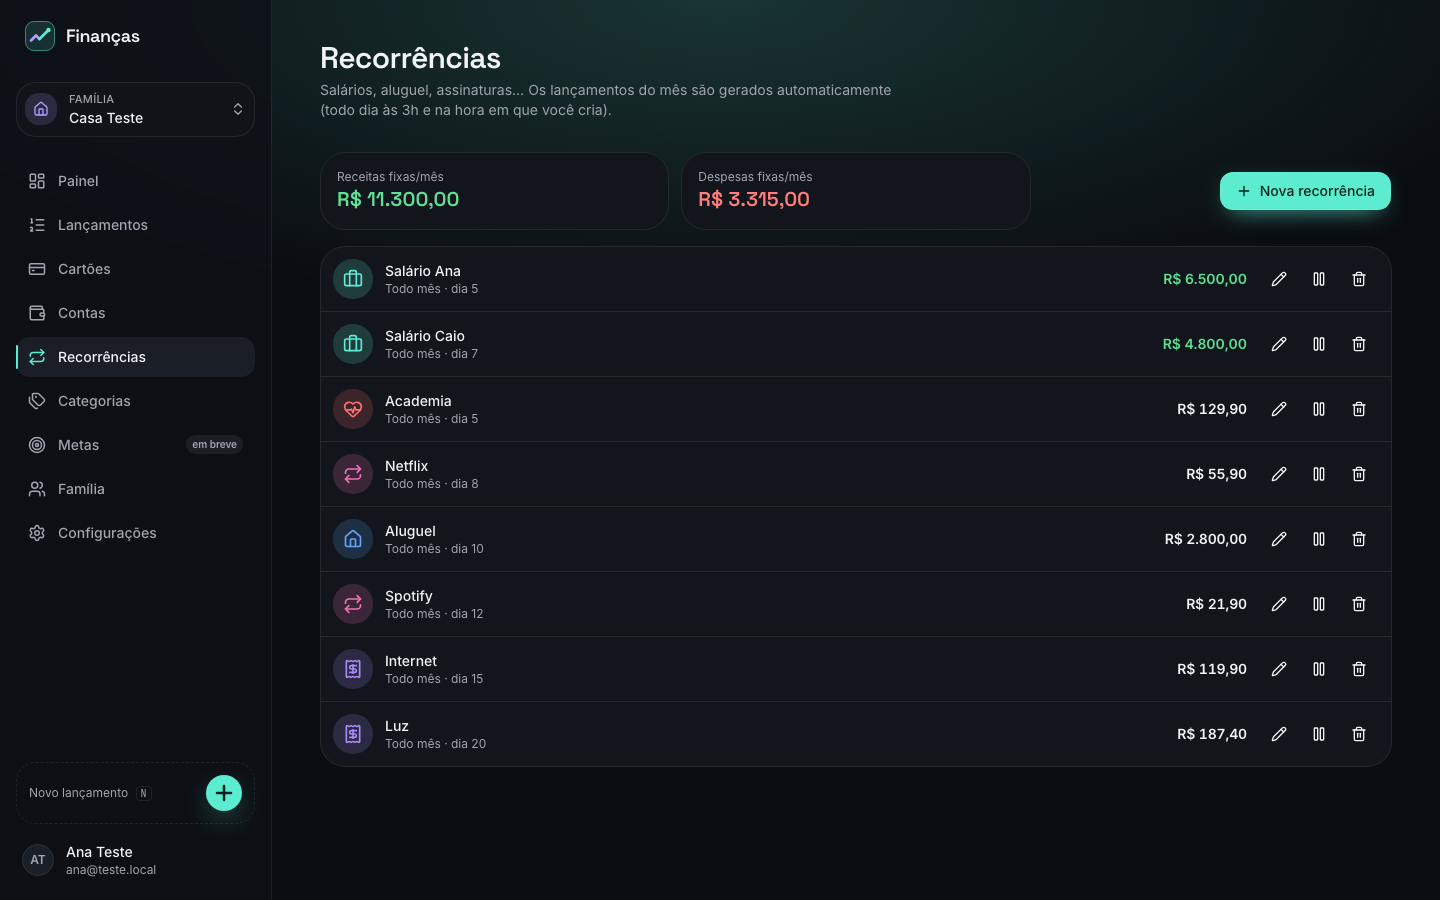
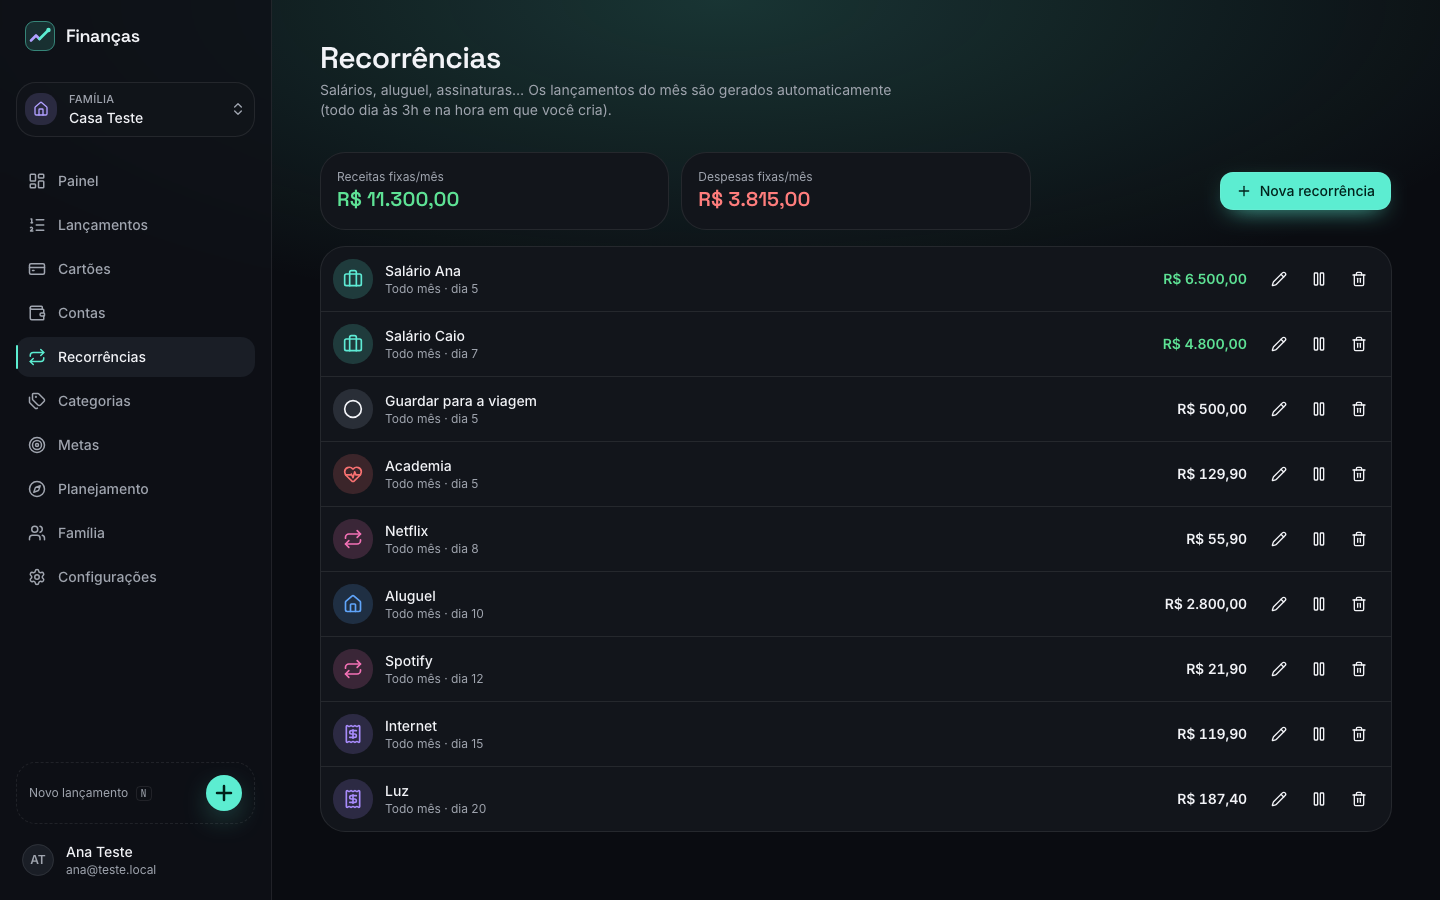
docs(images): screenshots da Fase 4 (metas, detalhe, planejamento, guardar para meta)

diff --git a/e2e/screenshots.spec.ts b/e2e/screenshots.spec.ts
@@ -7,6 +7,8 @@ import { devices, test } from "@playwright/test";
 const PAGES = [
   ["painel", "/painel"],
   ["painel-caixa", `/painel?visao=caixa&ano=${new Date().getFullYear()}`],
+  ["metas", "/metas"],
+  ["planejamento", "/planejamento"],
   ["lancamentos", "/lancamentos"],
   ["cartoes", "/cartoes"],
   ["contas", "/contas"],
@@ -32,7 +34,7 @@ for (const t of TARGETS) {
         await page.waitForLoadState("networkidle");
         await page.waitForTimeout(1200); // animações de entrada (barras dos gráficos)
         // Painel no desktop: página inteira (mostra todos os gráficos).
-        const fullPage = t.name === "desktop" && slug.startsWith("painel");
+        const fullPage = t.name === "desktop" && (slug.startsWith("painel") || slug === "planejamento");
         await page.screenshot({ path: `docs/images/${t.name}-${slug}.png`, fullPage });
       });
     }
@@ -44,6 +46,23 @@ for (const t of TARGETS) {
       await page.getByRole("radio", { name: "Restaurantes e delivery" }).click();
       await page.waitForTimeout(500);
       await page.screenshot({ path: `docs/images/${t.name}-lancamento-rapido.png` });
+    });
+
+    test("meta", async ({ page }) => {
+      await page.goto("/metas");
+      await page.getByRole("link", { name: "Carro" }).click();
+      await page.waitForURL(/\/metas\/[0-9a-f-]+/);
+      await page.waitForLoadState("networkidle");
+      await page.waitForTimeout(800);
+      await page.screenshot({ path: `docs/images/${t.name}-meta.png`, fullPage: t.name === "desktop" });
+    });
+
+    test("guardar-meta", async ({ page }) => {
+      await page.goto("/metas");
+      await page.getByRole("button", { name: "Guardar para Carro" }).click();
+      await page.getByLabel("Valor", { exact: true }).pressSequentially("30000");
+      await page.waitForTimeout(500);
+      await page.screenshot({ path: `docs/images/${t.name}-guardar-meta.png` });
     });
 
     test("fatura", async ({ page }) => {
